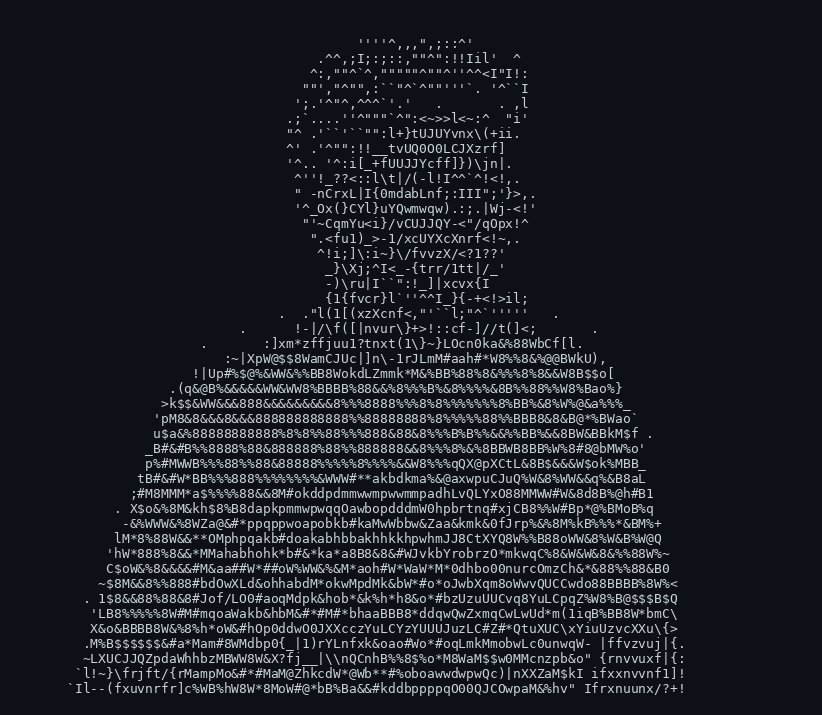
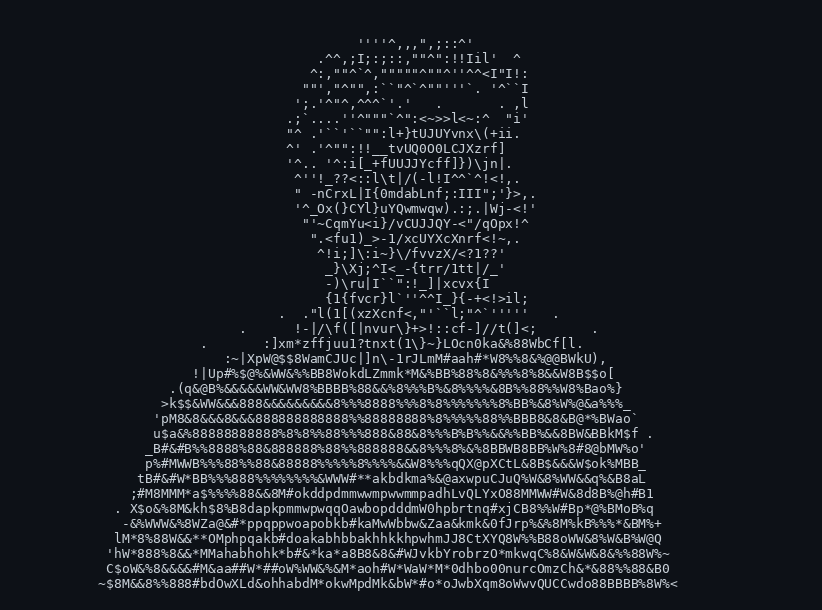
Move ASCII portrait to top-left, crop to shoulders

Changed region(s): [[0.0912, 0.0623, 0.8212, 0.9967]]

diff --git a/README.md b/README.md
@@ -3,6 +3,8 @@
   <img width="100%" src="https://capsule-render.vercel.app/api?type=waving&color=0:0f0c29,50:302b63,100:24243e&height=240&section=header&text=D%20L%20Narayana&fontSize=60&fontColor=ffffff&animation=fadeIn&fontAlignY=34&desc=Full-Stack%20Developer%20%E2%80%A2%20Builder%20of%20Real%20Products&descAlignY=54&descSize=18" alt="header banner" />
 </div>
 
+<img align="left" src="assets/ascii-portrait-dark.png" width="270" alt="ASCII art portrait of D L Narayana" />
+
 <!-- ===================== TYPING SVG ===================== -->
 <div align="center">
   <a href="https://github.com/Rahul777111">
@@ -25,12 +27,12 @@
   <a href="mailto:nvr0910@gmail.com"><img src="https://img.shields.io/badge/Email-EA4335?style=for-the-badge&logo=gmail&logoColor=white" alt="Email" /></a>
 </div>
 
+<br clear="all"/>
+
 <img width="100%" src="https://capsule-render.vercel.app/api?type=rect&color=0:A78BFA,100:302b63&height=2&section=header" alt="divider" />
 
 <!-- ===================== ABOUT ===================== -->
 ## &nbsp;👨💻&nbsp; About Me
-
-<img align="right" src="assets/ascii-portrait-dark.png" width="300" alt="ASCII art portrait of D L Narayana" />
 
 ```yaml
 name       : D L Narayana
